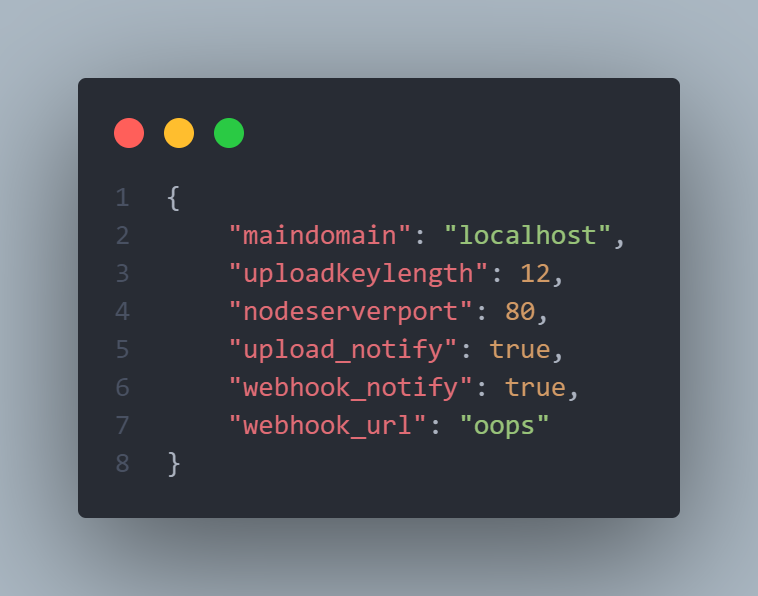
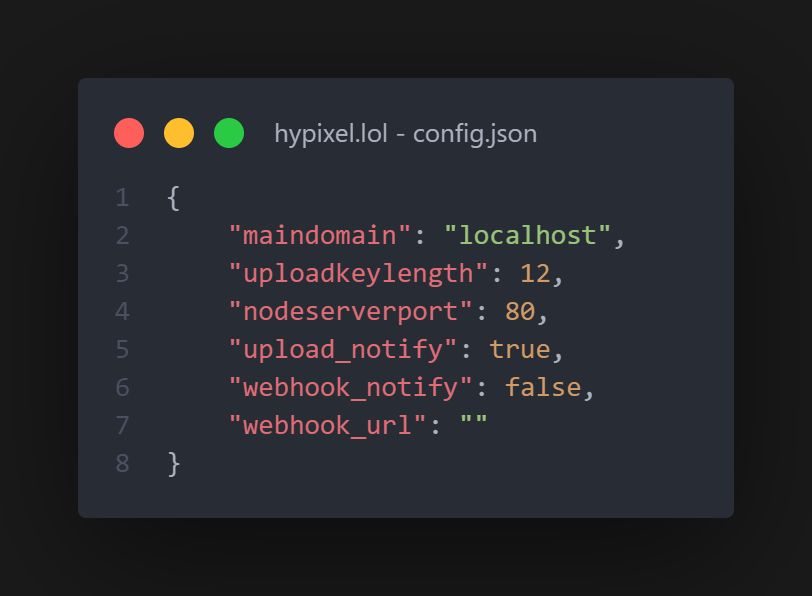
v1.2.3 - Setup for configs, some changes to the readme

diff --git a/setup.js b/setup.js
@@ -1,0 +1,91 @@
+const fs = require('fs')
+const prompt = require('prompt-sync')({sigint: true});
+
+const mainConfig = './src/data/config.json'
+const discordConfig = './src/data/discordconfig.json'
+
+function TrueFalse(name){
+    if (name == "Y"){
+        return true
+    } 
+    else if (name == "N") {
+        return false
+    }
+    else {
+        throw new Error("Wrong parameter given!");
+    }
+}
+
+function isNumber(name){
+    if (isNaN(name)){
+        throw new Error(name + " is not a number!");
+    }
+}
+
+console.clear()
+console.log('[INFO] Set up Main Config file!')
+
+const maindomain = prompt('What your main domain name? ')
+const uploadkeylength = prompt('How long you want your upload keys? ')
+isNumber(uploadkeylength)
+const serverport = prompt("What port you want your server to be hosted? ")
+isNumber(serverport)
+const uploadNotify = prompt("You want uploads to be logged in console? ")
+const webhookNotify = prompt("You want uploads to be logged in Discord webhooks? ")
+
+let uploadNotifyPrompt = null
+let webhookNotifyPrompt = null
+let webhookURL = null
+
+uploadNotifyPrompt = TrueFalse(uploadNotify);
+webhookNotifyPrompt = TrueFalse(webhookNotify);
+
+if (webhookNotifyPrompt == true){
+    webhookURL = prompt("Enter the webhook URL: ")
+}
+else {
+    webhookURL = ""
+}
+
+const mainConfigElements = {
+    maindomain: maindomain,
+    uploadkeylength: parseInt(uploadkeylength),
+    nodeserverport: parseInt(serverport),
+    upload_notify: uploadNotifyPrompt,
+    webhook_notify: webhookNotifyPrompt,
+    webhook_url: webhookURL
+}
+
+fs.writeFile(mainConfig, JSON.stringify(mainConfigElements, null, 4),
+    (error) => {
+        if (error) throw error;
+    }
+)
+
+console.clear()
+console.log('[SUCCESS] Main Config Finished!')
+console.log("[INFO] Setting up Discord Login!")
+console.log("Get your app data from: \n https://discord.com/developers/applications")
+
+const clientid = prompt("Enter your client ID: ")
+isNumber(clientid)
+const clientsecret = prompt("Enter your client secret: ")
+const callbackurl = `http://${maindomain}/login/callback`
+
+const discordConfigElements = {
+    clientID: clientid,
+    clientSecret: clientsecret,
+    callbackURL: callbackurl
+}
+
+fs.writeFile(discordConfig, JSON.stringify(discordConfigElements, null, 4),
+    (error) => {
+        if (error) throw error;
+    }
+)
+
+console.clear()
+console.log('[SUCCESS] Configs finished! Happy hosting!:)')
+console.log('Check your finished config!\n')
+console.log('Main config:\n' + JSON.stringify(mainConfigElements, null, 4))
+console.log('Discord config:\n' + JSON.stringify(discordConfigElements, null, 4))

diff --git a/README.md b/README.md
@@ -6,29 +6,21 @@
 
 ### Features
 - Easy configuration [(Image)](/preview/config.png)
-- Automatic config generation for each user
+- Automatic config generation for each user [(Image)](/preview/key.png)
 - Discord webhooks support [(Image)](/preview/webhook.png)
-- API
 - A user-friendly dashboard with Discord login integration [(Image)](/preview/user.png)
-
-### Embeds gone?!?!
-Currently I removed embed, to declutter some of the code. But soon, i'm trying to implement a dashboard management system, where the use can customize its embed and domains, without having to mess with the config file.
-(`Edit`: Domains dashboard working now!)
+- Domain management from the dashboard without any hassle [(Image)](/preview/domains.png)
 
 ### Installation
 - Download / Clone the source code.
-- Run the `install.bat` (Windows) or `install.sh` (Linux) file to install the required packages. (You may need to make the Linux version executable by typing `chmod +x install.sh`, then running it with `./install.sh`)
-- Configure the config in `src/data/config.json`.
-- Add your keys in `src/data/keys.json`.
+- Run `npm i` to install the packages.
+- After installing you can use the provided setup by typing `node setup.js` to the console. (You can enter the data manually to the file too)
 - Run `node .` or `npm start` to start the node.
 
-### Setup
-To add domains you need to first open `src/data/domains.json` and add the domains to the list.  
-Then you need to point the domains in the list to the server hosting hypixel.lol.  
-Finally, all domains pointed should update and they should be working.  
-
-To use subdomains you need to setup a wildcard subdomain (`*`) in each domain.  
-This allows anything to be put infront of the domain. Allowing custom subdomains, even ones that other people may already be using.
+### Installation (Linux)
+For Linux systems everything is automated with the bash script, all you need to do:
+- Make the script executable with `chmod +x install.sh`
+- And running it with `./install.sh`
 
 ### Config
 Here is a list of all the keys in the config with their meaning.  
@@ -45,6 +37,7 @@ Here is a list of all the keys in the config with their meaning.
 - [x] Webhooks for uploads
 - [X] Endpoints cleanup
 - [ ] Complete user system with Dashboard
+- [ ] Embed Support
 
 ### How to make new endpoints
 To make a new endpoint you need to make a file in the `routes` folder with your name of choice. Example: `example.js`
